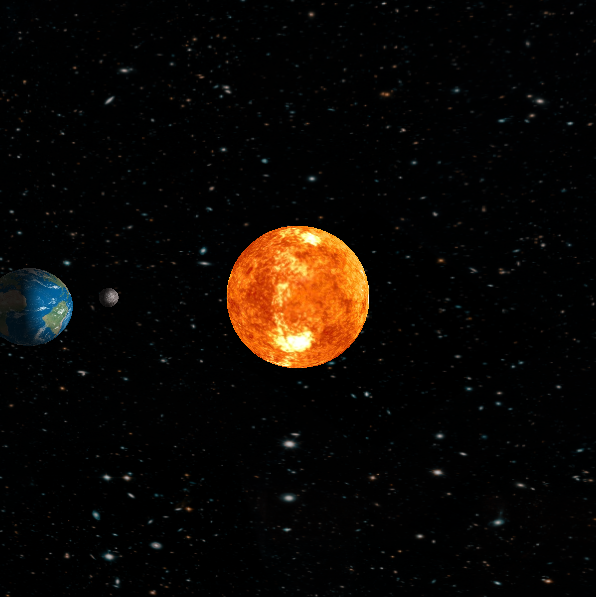
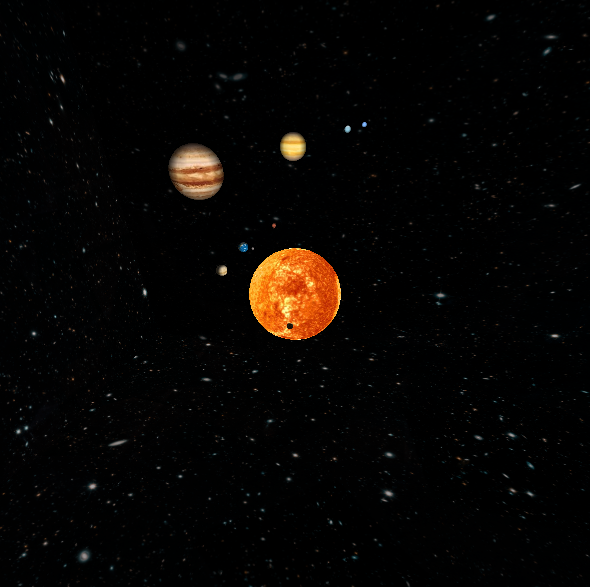
eight major planets

diff --git a/Solar/planet.h b/Solar/planet.h
@@ -8,10 +8,13 @@ public:
 	float srot;
 	float arot;
 	float radius;
-	int texture_name;
+	GLuint texture_name;
 	float distance;
+
+	float counter_a = 0.0f;
+	float counter_s = 0.0f;
 public:
-	Planet(float sr, float ar, float r, int tex, float dis)
+	Planet(float sr, float ar, float r, GLuint tex, float dis)
 	{
 		this->srot = sr;
 		this->arot = ar;

diff --git a/README.md b/README.md
@@ -6,6 +6,6 @@ solar system with opengl
 
 ## TODO
 - [x] reduce memory usage
-- [ ] camera travel
-- [ ] other planets
-- [ ] Sphere skybox
+- [x] camera travel
+- [x] other planets
+~~Sphere skybox~~
